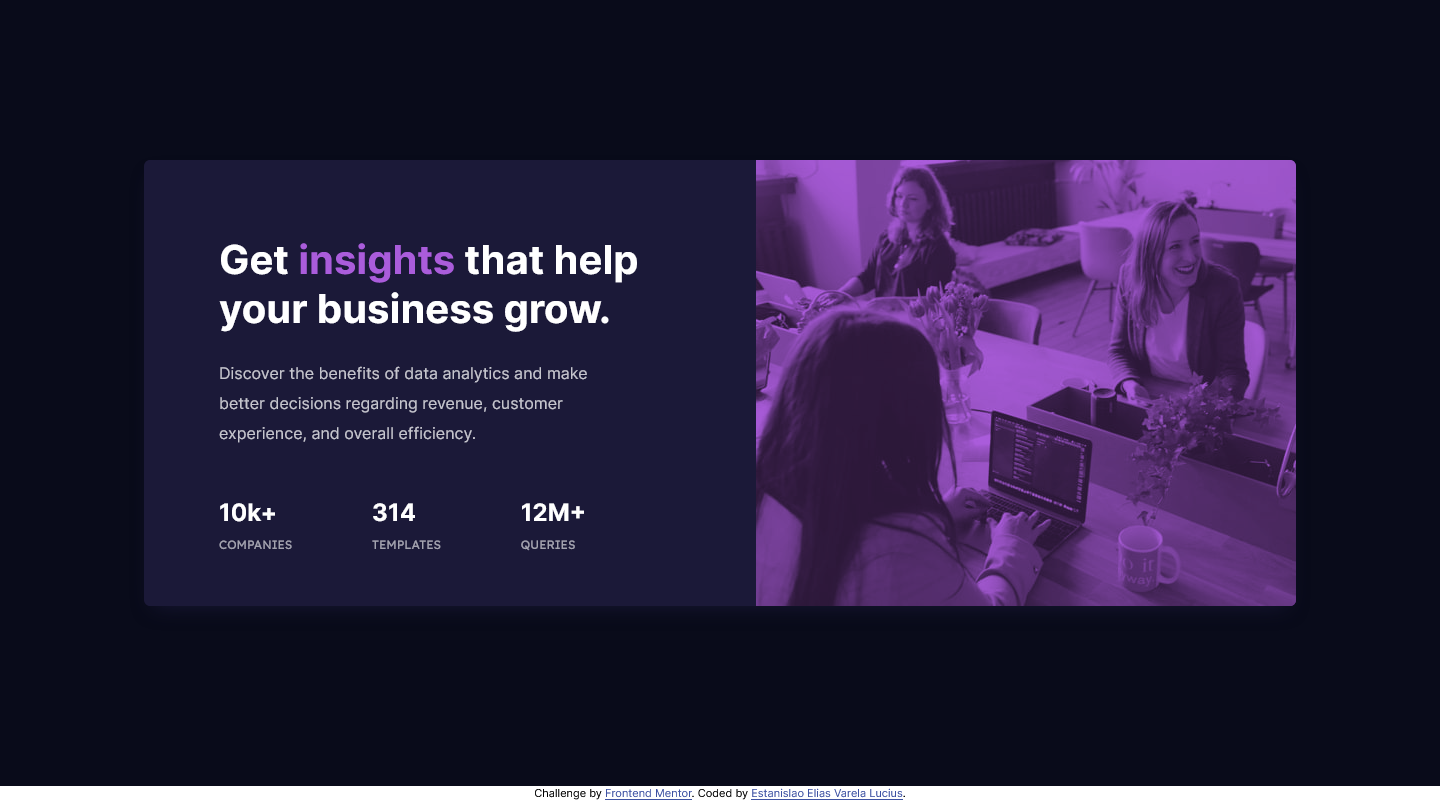
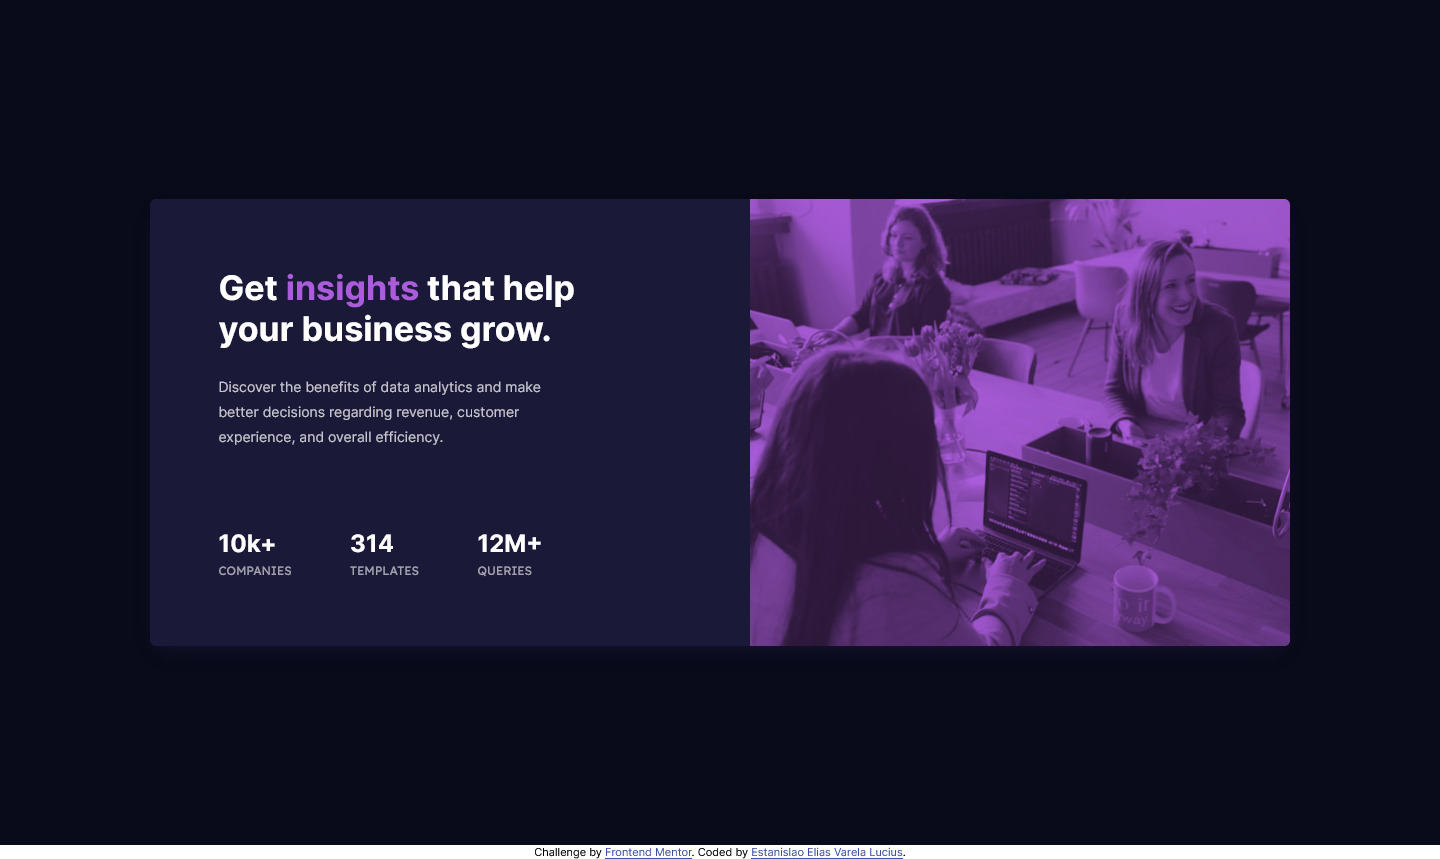
Media queries fixed

diff --git a/css/styles.css b/css/styles.css
@@ -5,20 +5,24 @@
   padding: 0;
   box-sizing: border-box; }
 
+html {
+  font-size: 62.5%; }
+
 body {
   font-family: 'Inter', sans-serif; }
 
 @media only screen and (max-width: 375px) {
   .main {
+    min-height: 100vh;
     background-color: #090b1a;
     display: flex;
     flex-direction: column;
     flex-wrap: nowrap;
     justify-content: center;
-    align-items: center; }
+    align-items: center;
+    padding-top: 25%;
+    padding-bottom: 20%; }
     .main .card {
-      margin-top: 100px;
-      margin-bottom: 100px;
       max-width: 88%;
       background-color: #1b1938;
       display: flex;
@@ -26,8 +30,7 @@ body {
       flex-wrap: nowrap;
       justify-content: center;
       align-items: center;
-      gap: 30px;
-      border-radius: 6px;
+      border-radius: 0.6rem;
       overflow: hidden;
       box-shadow: 0px 10px 20px -10px rgba(27, 25, 56, 0.9);
       -webkit-box-shadow: 0px 10px 20px -10px rgba(27, 25, 56, 0.9);
@@ -50,44 +53,47 @@ body {
         left: 0;
         opacity: 0.25; }
     .main .card__text {
+      padding: 10%;
       display: flex;
       flex-direction: column;
-      flex-wrap: nowrap;
+      flex-wrap: wrap;
       justify-content: center;
-      align-items: center;
-      gap: 30px; }
+      align-items: center; }
       .main .card__text h1 {
-        max-width: 90%;
+        margin-bottom: 2rem;
         text-align: center;
-        color: white; }
+        color: white;
+        font-size: 2.8rem; }
         .main .card__text h1 span {
           color: #aa5cdb; }
       .main .card__text p {
-        max-width: 85%;
+        max-width: 90%;
+        margin-bottom: 3.5rem;
         color: rgba(255, 255, 255, 0.75);
         text-align: center;
-        line-height: 25px; }
-      .main .card__text .stat__container {
-        gap: 30px;
-        margin-bottom: 40px; }
-        .main .card__text .stat__container .stat__container--box {
-          display: flex;
-          flex-direction: column;
-          flex-wrap: nowrap;
-          justify-content: center;
-          align-items: center; }
-          .main .card__text .stat__container .stat__container--box h2 {
-            color: white; }
-          .main .card__text .stat__container .stat__container--box h3 {
-            margin-top: 5px;
-            color: rgba(255, 255, 255, 0.6);
-            text-transform: uppercase;
-            font-family: 'Lexend Deca', sans-serif;
-            font-size: 12px;
-            font-weight: normal; } }
+        font-size: 1.4rem;
+        line-height: 2.5rem; }
+      .main .card__text .stat__container .stat__container--box {
+        display: flex;
+        flex-direction: column;
+        flex-wrap: wrap;
+        justify-content: center;
+        align-items: center; }
+        .main .card__text .stat__container .stat__container--box h2 {
+          margin-bottom: 0.5rem;
+          color: white;
+          font-size: 2.2rem; }
+        .main .card__text .stat__container .stat__container--box h3 {
+          margin-bottom: 2.5rem;
+          color: rgba(255, 255, 255, 0.6);
+          text-transform: uppercase;
+          font-family: 'Lexend Deca', sans-serif;
+          font-size: 1.2rem;
+          font-weight: normal; } }
 
-@media only screen and (min-width: 375px) {
+@media only screen and (min-width: 376px) {
   .main {
+    height: 100vh;
     background-color: #090b1a;
     display: flex;
     flex-direction: row;
@@ -95,16 +101,14 @@ body {
     justify-content: center;
     align-items: center; }
     .main .card {
-      margin-top: 160px;
-      margin-bottom: 300px;
-      max-width: 80%;
+      max-width: 114rem;
       background-color: #1b1938;
       display: flex;
       flex-direction: row-reverse;
       flex-wrap: nowrap;
-      justify-content: flex-start;
-      align-items: center;
-      border-radius: 6px;
+      justify-content: center;
+      align-items: stretch;
+      border-radius: 0.6rem;
       overflow: hidden;
       box-shadow: 0px 10px 20px -10px rgba(27, 25, 56, 0.9);
       -webkit-box-shadow: 0px 10px 20px -10px rgba(27, 25, 56, 0.9);
@@ -112,6 +116,8 @@ body {
     .main .card__image {
       background-color: #aa5cdb;
       position: relative; }
+      .main .card__image img {
+        height: 100%; }
       .main .card__image .img--mobile {
         display: none; }
       .main .card__image .img--desktop {
@@ -126,39 +132,44 @@ body {
         left: 0;
         opacity: 0.25; }
     .main .card__text {
-      margin-left: 75px;
-      margin-right: 100px; }
+      padding: 6%;
+      display: flex;
+      flex-direction: column;
+      flex-wrap: nowrap;
+      justify-content: space-between;
+      align-items: stretch;
+      height: 100%;
+      max-width: 60%; }
       .main .card__text h1 {
-        margin-top: 70px;
-        margin-bottom: 25px;
-        font-size: 40px;
+        max-width: 80%;
+        margin-bottom: 2.5rem;
+        font-size: 3.4rem;
         color: white; }
         .main .card__text h1 span {
           color: #aa5cdb; }
       .main .card__text p {
-        margin-right: 50px;
-        margin-bottom: 50px;
+        max-width: 70%;
+        margin-bottom: 8rem;
         color: rgba(255, 255, 255, 0.75);
-        font-size: 16px;
-        line-height: 30px;
+        font-size: 1.4rem;
+        line-height: 2.5rem;
         text-align: left; }
       .main .card__text .stat__container {
+        max-width: 70%;
         display: flex;
         flex-direction: row;
         flex-wrap: nowrap;
         justify-content: space-between;
-        align-items: center;
-        margin-right: 70px;
-        margin-bottom: 50px; }
+        align-items: center; }
         .main .card__text .stat__container .stat__container--box h2 {
-          margin-bottom: 10px;
+          margin-bottom: 0.5rem;
           color: white;
-          font-size: 24px; }
+          font-size: 2.4rem; }
         .main .card__text .stat__container .stat__container--box h3 {
           color: rgba(255, 255, 255, 0.6);
           text-transform: uppercase;
           font-family: 'Lexend Deca', sans-serif;
-          font-size: 12px;
+          font-size: 1.2rem;
           font-weight: normal; } }
 
 .attribution {

diff --git a/scss/layout/_main.scss b/scss/layout/_main.scss
@@ -1,16 +1,16 @@
 // Mobile
 @media only screen and (max-width: 375px){
 .main{
+    min-height: 100vh;
     background-color: $main-bg;
     @include flexbox(flex, column, nowrap, center, center);
-    .card{
-        margin-top: 100px;
-        margin-bottom: 100px;
+    padding-top: 25%;
+    padding-bottom: 20%;
+    .card{        
         max-width: 88%;
         background-color: $card-bg;
         @include flexbox(flex, column, nowrap, center, center);
-        gap: 30px;
-        border-radius: 6px;
+        border-radius: 0.6rem;
         overflow: hidden;
         box-shadow: 0px 10px 20px -10px rgba(27,25,56,0.9);
         -webkit-box-shadow: 0px 10px 20px -10px rgba(27,25,56,0.9);
@@ -38,36 +38,39 @@
             }
         }
         .card__text{
-            @include flexbox(flex, column, nowrap, center, center);
-            gap: 30px;
+            padding: 10%;
+            @include flexbox(flex, column, wrap, center, center);
             h1{
-                max-width: 90%;
+                margin-bottom: 2rem;
                 text-align: center;
                 color: $main-heading-stats;
+                font-size: $h1-size-m;
                 span{
                     color: $accent;
                 }
             }
             p{
-                max-width: 85%;
+                max-width: 90%;
+                margin-bottom: 3.5rem;
                 color: $main-p;
                 text-align: center;
-                line-height: 25px;
+                font-size: $p-size-m;
+                line-height: 2.5rem;
             }
             .stat__container{
-                gap: 30px;
-                margin-bottom: 40px;
                 .stat__container--box{
-                    @include flexbox(flex, column, nowrap, center, center);
+                    @include flexbox(flex, column, wrap, center, center);
                     h2{
+                        margin-bottom: 0.5rem;
                         color: $main-heading-stats;
+                        font-size: $h2-size-m;
                     }
                     h3{
-                        margin-top: 5px;
+                        margin-bottom: 2.5rem;
                         color: $stat-heading;
                         text-transform: uppercase;
                         font-family: 'Lexend Deca', sans-serif;
-                        font-size: $h4-size;
+                        font-size: $h3-size-m;
                         font-weight: normal;
                     }
                 }
@@ -77,17 +80,16 @@
 }
 
 // Desktop
-@media only screen and (min-width: 375px){
+@media only screen and (min-width: 376px){
 .main{
+    height: 100vh;
     background-color: $main-bg;
     @include flexbox(flex, row, nowrap, center, center);
     .card{
-        margin-top: 160px;
-        margin-bottom: 300px;
-        max-width: 80%;
+        max-width: 114rem;
         background-color: $card-bg;
-        @include flexbox(flex, row-reverse, nowrap, flex-start, center);
-        border-radius: 6px;
+        @include flexbox(flex, row-reverse, nowrap, center, stretch);
+        border-radius: 0.6rem;
         overflow: hidden;
         box-shadow: 0px 10px 20px -10px rgba(27,25,56,0.9);
         -webkit-box-shadow: 0px 10px 20px -10px rgba(27,25,56,0.9);
@@ -96,6 +98,9 @@
         .card__image{
             background-color: $accent;
             position: relative;
+            img{
+                height: 100%;
+            }
             .img--mobile{
                 display: none;
             }
@@ -114,11 +119,13 @@
             }
         }
         .card__text{
-            margin-left: 75px;
-            margin-right: 100px;
+            padding: 6%;
+            @include flexbox (flex, column, nowrap, space-between, stretch);
+            height: 100%;
+            max-width: 60%;
             h1{
-                margin-top: 70px;
-                margin-bottom: 25px;
+                max-width: 80%;
+                margin-bottom: 2.5rem;
                 font-size: $h1-size;
                 color: $main-heading-stats;
                 span{
@@ -126,28 +133,27 @@
                 }
             }
             p{
-                margin-right: 50px;
-                margin-bottom: 50px;
+                max-width: 70%;
+                margin-bottom: 8rem;
                 color: $main-p;
                 font-size: $p-size;
-                line-height: 30px;
+                line-height: 2.5rem;
                 text-align: left;
             }
             .stat__container{
+                max-width: 70%;
                 @include flexbox(flex, row, nowrap, space-between, center);
-                margin-right: 70px;
-                margin-bottom: 50px;
                 .stat__container--box{
                     h2{
-                        margin-bottom: 10px;
+                        margin-bottom: 0.5rem;
                         color: $main-heading-stats;
-                        font-size: $h3-size;
+                        font-size: $h2-size;
                     }
                     h3{
                         color: $stat-heading;
                         text-transform: uppercase;
                         font-family: 'Lexend Deca', sans-serif;
-                        font-size: $h4-size;
+                        font-size: $h3-size;
                         font-weight: normal;
                     }
                 }

diff --git a/scss/utilities/_variables.scss b/scss/utilities/_variables.scss
@@ -6,9 +6,17 @@ $main-heading-stats: hsl(0, 0%, 100%);
 $main-p: hsla(0, 0%, 100%, 0.75);
 $stat-heading: hsla(0, 0%, 100%, 0.6);
 
-// Font size
-$font-size: 15px;
-$h1-size: 40px;
-$h3-size: 24px;
-$h4-size: 12px;
-$p-size: 16px;
+// Font size mobile:
+$font-size-m: 1.6rem;
+$h1-size-m: 2.8rem;
+$h2-size-m: 2.2rem;
+$h3-size-m: 1.2rem;
+$p-size-m: 1.4rem;
+
+// Font size desktop:
+$font-size: 1.6rem;
+$h1-size: 3.4rem;
+$h2-size: 2.4rem;
+$h3-size: 1.2rem;
+$p-size: 1.4rem;
+

diff --git a/scss/base/_reset.scss b/scss/base/_reset.scss
@@ -3,3 +3,6 @@
     padding: 0;
     box-sizing: border-box;
 }
+html{
+    font-size: 62.5%;
+}
